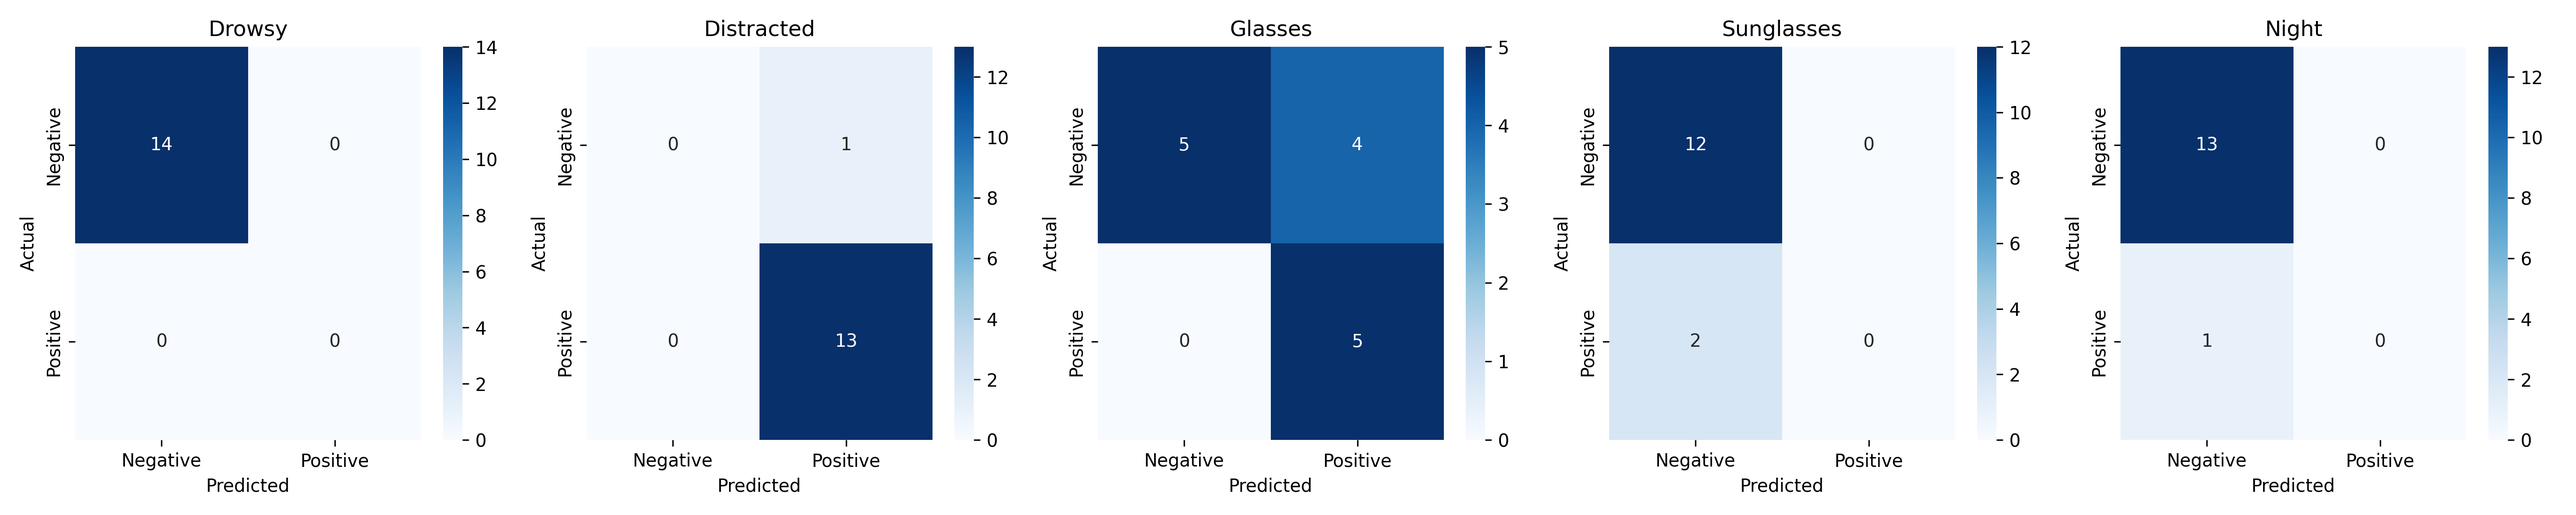
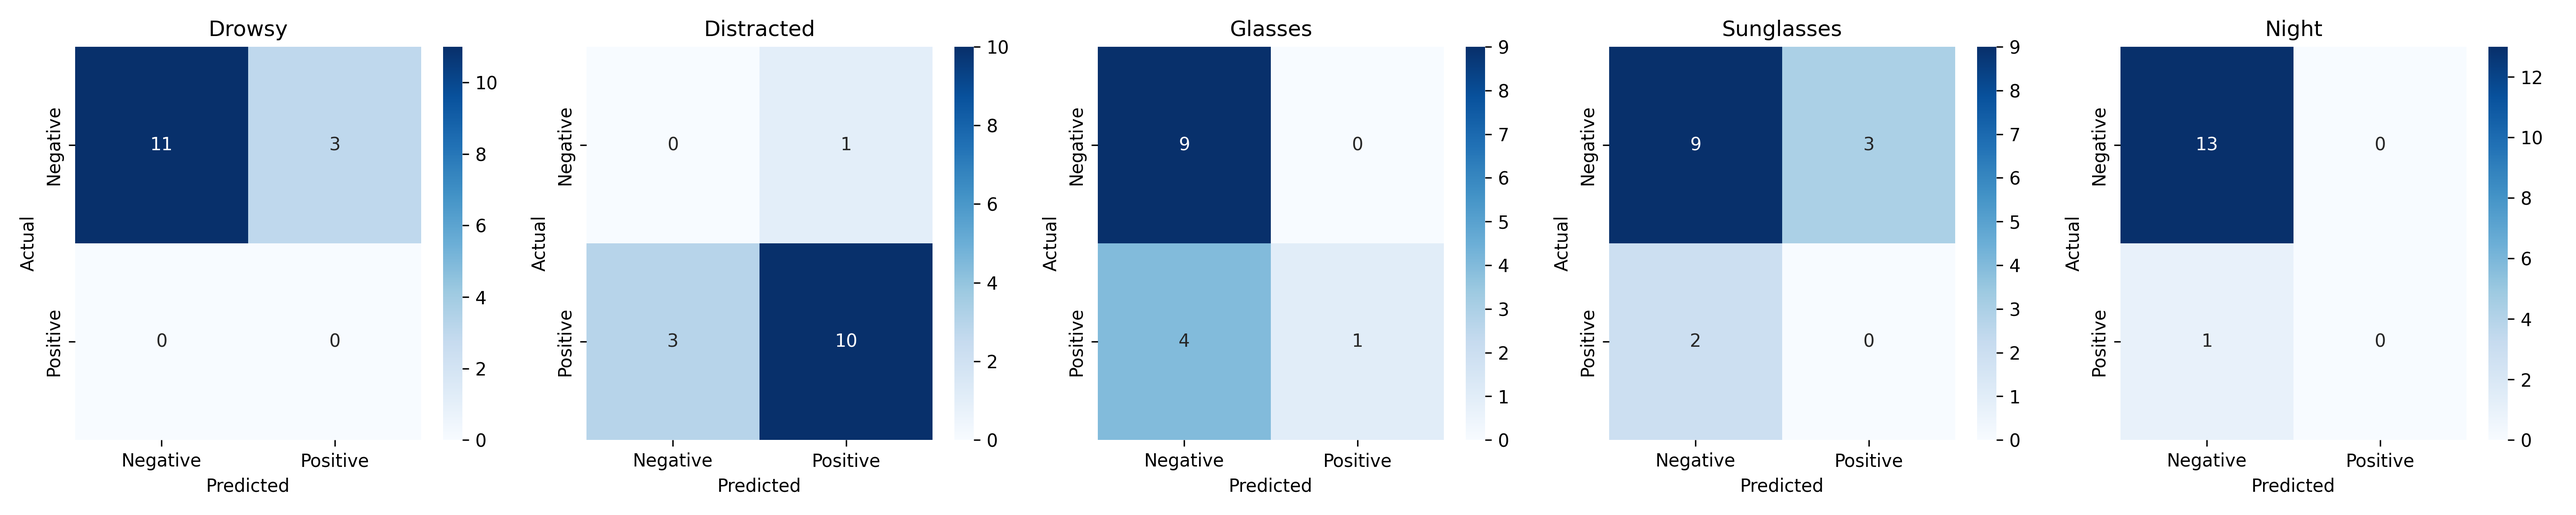
.

diff --git a/inference/predict.py b/inference/predict.py
@@ -16,9 +16,10 @@ CLASS_NAMES = ["Drowsy", "Distracted", "Glasses", "Sunglasses", "Night"]
 HELD_OUT_SUBJECTS = {"s1", "s4"}
 
 # ── Dataset config ────────────────────────────────────────────────────────────
-DATA_PATH        = os.path.expanduser("~/Desktop/dmd")
+DATA_PATH        = os.path.expanduser("~/Downloads")
 # Set to your Drive&Act root to include it in evaluation, or None to skip.
 DRIVEANDACT_PATH = os.path.expanduser("~/Downloads")  # folders: inner_mirror, a_column_driver, activities_3s
+MDAD_PATH        = os.path.expanduser("~/Downloads/neuromorphic-drive-monitoring/data/3mdad")
 
 # ── Load model ────────────────────────────────────────────────────────────────
 if not os.path.exists("model.pth"):
@@ -36,6 +37,7 @@ model.eval()
 _, dataset, _ = build_combined_datasets(
     dmd_path          = DATA_PATH,
     driveandact_path  = DRIVEANDACT_PATH,
+    mdad_path         = MDAD_PATH,
     held_out_subjects = HELD_OUT_SUBJECTS,
 )
 

diff --git a/inference/compare_baselines.py b/inference/compare_baselines.py
@@ -28,9 +28,10 @@ from dataset.combined import build_combined_datasets
 from spikingjelly.activation_based import functional
 
 # ── Config ────────────────────────────────────────────────────────────────────
-DATA_PATH         = os.path.expanduser("~/Desktop/dmd")
+DATA_PATH         = os.path.expanduser("~/Downloads")
 # Set to your Drive&Act root to include it in evaluation, or None to skip.
 DRIVEANDACT_PATH  = os.path.expanduser("~/Downloads")  # folders: inner_mirror, a_column_driver, activities_3s
+MDAD_PATH         = os.path.expanduser("~/Downloads/neuromorphic-drive-monitoring/data/3mdad")
 HELD_OUT_SUBJECTS = {"s1", "s4"}
 CLASS_NAMES       = ["Drowsy", "Distracted", "Glasses", "Sunglasses", "Night"]
 THRESHOLD         = 0.5
@@ -161,6 +162,7 @@ def main():
     _, test_dataset, _ = build_combined_datasets(
         dmd_path          = DATA_PATH,
         driveandact_path  = DRIVEANDACT_PATH,
+        mdad_path         = MDAD_PATH,
         held_out_subjects = HELD_OUT_SUBJECTS,
     )
     if len(test_dataset) == 0:

diff --git a/inference/contextual_eval.py b/inference/contextual_eval.py
@@ -28,9 +28,10 @@ from dataset.video_dataset import VideoDataset
 from dataset.combined import build_combined_datasets
 from spikingjelly.activation_based import functional
 
-DATA_PATH        = os.path.expanduser("~/Desktop/dmd")
+DATA_PATH        = os.path.expanduser("~/Downloads")
 # Set to your Drive&Act root to include it in the contextual breakdown, or None to skip.
 DRIVEANDACT_PATH = os.path.expanduser("~/Downloads")  # folders: inner_mirror, a_column_driver, activities_3s
+MDAD_PATH        = os.path.expanduser("~/Downloads/neuromorphic-drive-monitoring/data/3mdad")
 THRESHOLD = 0.5
 
 # Label indices
@@ -115,6 +116,7 @@ def main():
     dataset, _, _ = build_combined_datasets(
         dmd_path          = DATA_PATH,
         driveandact_path  = DRIVEANDACT_PATH,
+        mdad_path         = MDAD_PATH,
         held_out_subjects = set(),  # no holdout — use all data for condition breakdown
         augment_train     = False,
     )

diff --git a/inference/generate_paper_graphs.py b/inference/generate_paper_graphs.py
@@ -18,9 +18,10 @@ def main():
     print("  Generating Research Paper Graphs")
     print("="*65)
     
-    DATA_PATH        = os.path.expanduser("~/Desktop/dmd")
+    DATA_PATH        = os.path.expanduser("~/Downloads")
     # Set to your Drive&Act root to include it in graphs, or None to skip.
     DRIVEANDACT_PATH = os.path.expanduser("~/Downloads")  # folders: inner_mirror, a_column_driver, activities_3s
+    MDAD_PATH        = os.path.expanduser("~/Downloads/neuromorphic-drive-monitoring/data/3mdad")
 
     if not os.path.exists("model.pth"):
         print("ERROR: model.pth not found. Please train the model first.")
@@ -38,6 +39,7 @@ def main():
     dataset, _, _ = build_combined_datasets(
         dmd_path          = DATA_PATH,
         driveandact_path  = DRIVEANDACT_PATH,
+        mdad_path         = MDAD_PATH,
         held_out_subjects = set(),  # no holdout — use all data
         augment_train     = False,
     )

diff --git a/training/train.py b/training/train.py
@@ -48,7 +48,7 @@ def main():
     
     # Config paths
     # DMD dataset root (may be empty/absent — graceful degradation)
-    DATA_PATH       = os.path.expanduser("~/Desktop/dmd")
+    DATA_PATH       = os.path.expanduser("~/Downloads")
     DRIVEANDACT_PATH = os.path.expanduser("~/Downloads")
     # 3MDAD dataset root (inside the project)
     MDAD_PATH       = os.path.join(
